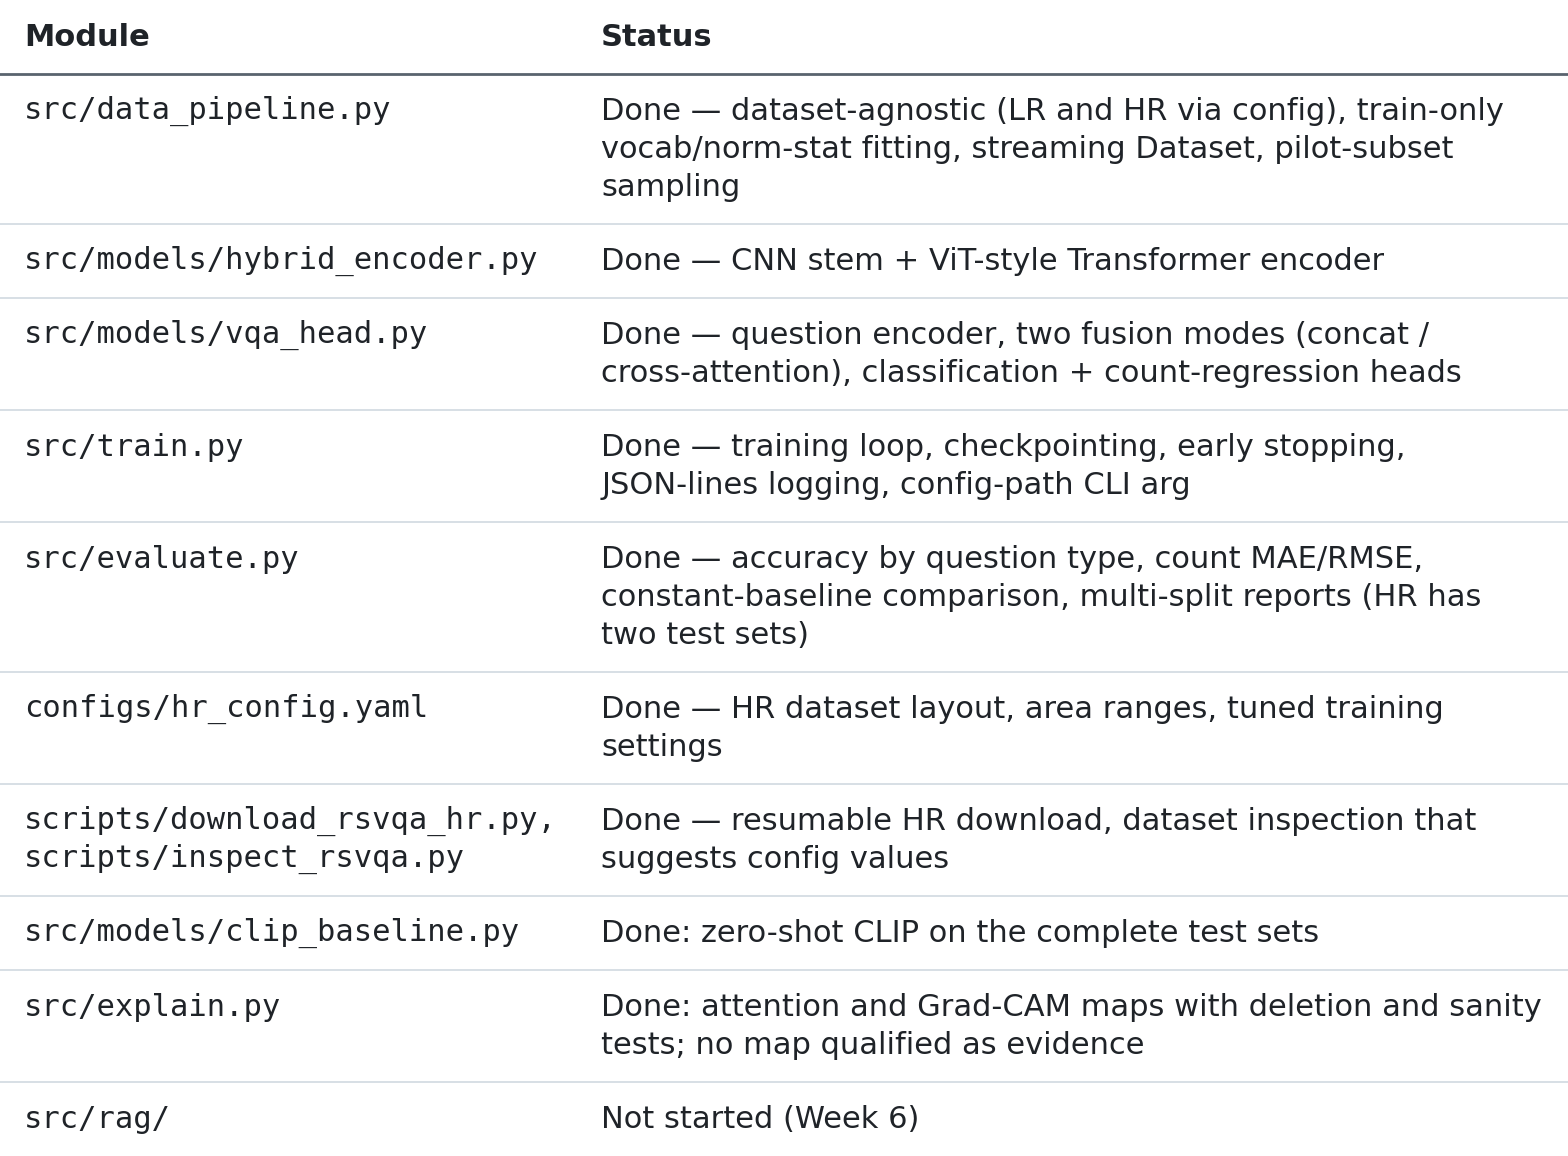
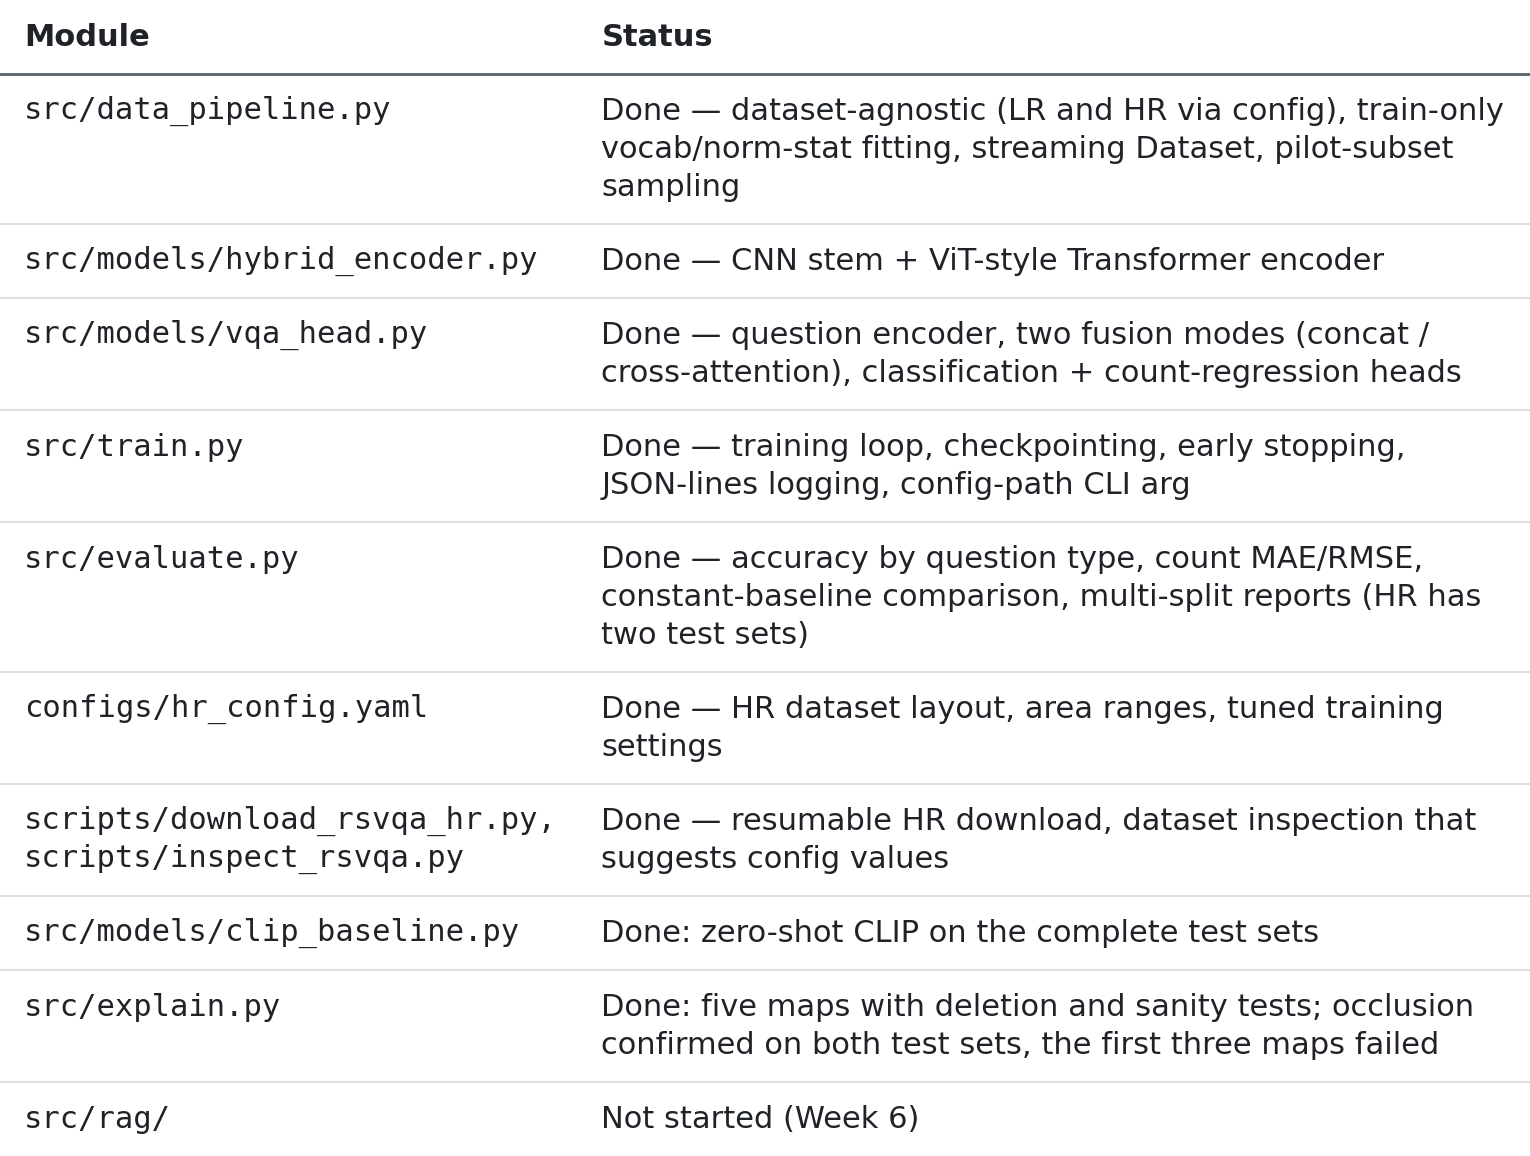
Record XAI second attempt: occlusion confirmed on both test sets
Gradient-weighted attention and occlusion both qualified on val; occlusion
had the larger effect and went to the test sets once. It beats the random
map on every question type, pooled and in each test set, and passes both
checks. The README states the limits, including that the first three maps
were not rerun with blur deletion.

diff --git a/README.md b/README.md
@@ -17,7 +17,7 @@ follows.
 **Week 1 (RSVQA-LR pipeline) is complete, trained, and evaluated.**
 **Weeks 2-4 (RSVQA-HR port, tuning, full run) are complete, trained, and evaluated.**
 
-<img src="reports/figures/table_01.png" alt="Status: Module, Status" width="784">
+<img src="reports/figures/table_01.png" alt="Status: Module, Status" width="765">
 
 <details><summary>Table as text</summary>
 
@@ -31,7 +31,7 @@ follows.
 | `configs/hr_config.yaml` | Done — HR dataset layout, area ranges, tuned training settings |
 | `scripts/download_rsvqa_hr.py`, `scripts/inspect_rsvqa.py` | Done — resumable HR download, dataset inspection that suggests config values |
 | `src/models/clip_baseline.py` | Done: zero-shot CLIP on the complete test sets |
-| `src/explain.py` | Done: attention and Grad-CAM maps with deletion and sanity tests; no map qualified as evidence |
+| `src/explain.py` | Done: five maps with deletion and sanity tests; occlusion confirmed on both test sets, the first three maps failed |
 | `src/rag/` | Not started (Week 6) |
 
 </details>
@@ -408,9 +408,12 @@ fixed before any result: the largest deletion effect among maps that beat random
 pass both checks below. Sample: up to 250 right and 250 wrong answers per question type and test set (3,829
 questions). Report: `reports/xai_results_hr_full_20261031-090319.md`.
 
-**Result: no map qualifies, so the maps must not be presented as evidence for an answer.**
+**Final result: occlusion qualifies on both test sets (see Second attempt below).** The first attempt, described
+here, ended with no map qualifying.
 
-<img src="reports/figures/table_12.png" alt="Explainability (XAI, `hr_full` model): Map, Beats random on, Correlation with random weights (limit 0.5), Correlation between two questions (limit 0.9), Outcome" width="867">
+#### First attempt: attention and Grad-CAM
+
+<img src="reports/figures/table_12.png" alt="First attempt: attention and Grad-CAM: Map, Beats random on, Correlation with random weights (limit 0.5), Correlation between two questions (limit 0.9), Outcome" width="867">
 
 <details><summary>Table as text</summary>
 
@@ -424,7 +427,7 @@ questions). Report: `reports/xai_results_hr_full_20261031-090319.md`.
 
 Rollout's deletion effect against the random map, by test set (probability drop, or log1p change for count):
 
-<img src="reports/figures/table_13.png" alt="Explainability (XAI, `hr_full` model): Type, test rollout, test random, test_phili rollout, test_phili random" width="704">
+<img src="reports/figures/table_13.png" alt="First attempt: attention and Grad-CAM: Type, test rollout, test random, test_phili rollout, test_phili random" width="704">
 
 <details><summary>Table as text</summary>
 
@@ -455,6 +458,56 @@ Examples, the presence figures for both test sets, right and wrong (tiles chosen
 <img src="reports/figures/xai/test_presence_wrong.png" alt="XAI maps, test set, presence question answered wrongly" width="825">
 <img src="reports/figures/xai/test_phili_presence_right.png" alt="XAI maps, Philadelphia, presence question answered correctly" width="825">
 <img src="reports/figures/xai/test_phili_presence_wrong.png" alt="XAI maps, Philadelphia, presence question answered wrongly" width="825">
+
+#### Second attempt: occlusion
+
+After that failure, two further maps were tried: **gradient-weighted attention** (Chefer et al., 2021, every
+attention step weighted by its gradient for this answer) and **occlusion** (grey out each grid cell in turn and
+measure how much the answer changes, 256 model runs per question). The limits and the rule stayed the same.
+Deletion changed from the mean colour to a blur, because occlusion builds its map with grey and would otherwise
+be tested by the same operation. Both maps were run on val, and only the winner went to the test sets, once.
+Reports: `reports/xai_results_hr_full_20261031-090319_new_val.md` and `_new_test.md`.
+
+<img src="reports/figures/table_14.png" alt="Second attempt: occlusion: Map, Stage (questions), Standardized effect: presence / comparison / area / count, Correlation with random weights (limit 0.5), Correlation between two questions (limit 0.9), Outcome" width="868">
+
+<details><summary>Table as text</summary>
+
+| Map | Stage (questions) | Standardized effect: presence / comparison / area / count | Correlation with random weights (limit 0.5) | Correlation between two questions (limit 0.9) | Outcome |
+|---|---|---|---|---|---|
+| Gradient-weighted attention | val (1,538) | 0.25 / 0.18 / 0.18 / 0.53 | -0.015 | 0.352 | Qualifies, not chosen: smaller effect |
+| Occlusion | val (1,538) | 0.79 / 0.74 / 0.90 / 0.63 | 0.023 | 0.101 | Qualifies, chosen |
+| Occlusion | both test sets (3,829) | 0.78 / 0.79 / 0.80 / 0.50 | 0.024 | 0.114 | **Confirmed** |
+
+</details>
+
+Occlusion's deletion effect against the random map, by test set (probability drop, or log1p change for count), with
+the 95% lower bound on the difference:
+
+<img src="reports/figures/table_15.png" alt="Second attempt: occlusion: Type, test occlusion, test random, test lower bound, test_phili occlusion, test_phili random, test_phili lower bound" width="861">
+
+<details><summary>Table as text</summary>
+
+| Type | `test` occlusion | `test` random | `test` lower bound | `test_phili` occlusion | `test_phili` random | `test_phili` lower bound |
+|---|---|---|---|---|---|---|
+| Presence | 0.143 | 0.028 | 0.101 | 0.139 | 0.017 | 0.108 |
+| Comparison | 0.191 | 0.038 | 0.135 | 0.142 | 0.004 | 0.122 |
+| Area | 0.159 | 0.034 | 0.113 | 0.141 | 0.028 | 0.100 |
+| Count | 0.312 | 0.175 | 0.117 | 0.135 | 0.081 | 0.044 |
+
+</details>
+
+- **It holds in Philadelphia**, the city the model never saw and where rollout tied random. Count is the weakest
+  type there: the answer changes on 21.9% of deletions, against 15.2% for random.
+- **Faithful does not mean correct.** The map shows what this model relied on, including when it is wrong. It says
+  nothing about whether that region contains the object asked about, because RSVQA has no object masks.
+- **The test favours this method.** Occlusion measures the answer's sensitivity to removing a cell, and deletion
+  checks much the same thing. Blurring reduces this advantage but does not remove it.
+- **The two attempts are not like for like.** The first three maps were not rerun with blur, so this does not show
+  that occlusion beats them under equal conditions. Rollout would still fail on its question correlation, which
+  deletion does not affect.
+- **Other limits.** Most answers survive deletion: on presence, comparison and area the answer changes on 22-33% of
+  deletions. The all-constant check found 3 maps of 3,829. The sample limits above still apply. Each answer takes
+  1.48 s with its maps on a T4, against 0.009 s for the first three maps.
 
 ## Key design decisions
 
@@ -585,7 +638,7 @@ To train on a GPU instead:
 All hyperparameters live in `configs/model_config.yaml` (LR) /
 `configs/hr_config.yaml` (HR):
 
-<img src="reports/figures/table_14.png" alt="Configuration: Key, Meaning" width="859">
+<img src="reports/figures/table_16.png" alt="Configuration: Key, Meaning" width="859">
 
 <details><summary>Table as text</summary>
 
@@ -627,7 +680,7 @@ src/
 ├── rag/                   # retrieval + LLM explanation layer (not started)
 ├── train.py
 ├── evaluate.py
-└── explain.py             # attention rollout + Grad-CAM, with faithfulness tests
+└── explain.py             # attention, Grad-CAM and occlusion maps, with faithfulness tests
 scripts/
 ├── download_rsvqa_hr.py   # resumable HR download from Zenodo
 ├── inspect_rsvqa.py       # dataset inspection (LR or HR), suggests config values

diff --git a/reports/xai_results_hr_full_20261031-090319_new_test.md b/reports/xai_results_hr_full_20261031-090319_new_test.md
@@ -1,0 +1,103 @@
+# XAI results: hr\_full\_20261031-090319
+
+Splits: test, test\_phili. Deleted cells are replaced with: blur.
+
+**Map for the RAG layer: occlusion**
+
+- `occlusion`: qualifies, mean standardized effect 0.716
+
+## Against the random map (scored splits pooled; this decides the choice)
+
+Per question, the effect averaged over deletion sizes, minus the random map's.
+
+| Map | Type | Mean difference | 95% lower bound | Standardized |
+| :---- | :---- | :---- | :---- | :---- |
+| occlusion | presence | 0.1186 | 0.1088 | 0.779 |
+| occlusion | comp | 0.1454 | 0.1334 | 0.791 |
+| occlusion | area | 0.1196 | 0.1103 | 0.796 |
+| occlusion | count | 0.0956 | 0.0837 | 0.500 |
+
+## Against a random block (secondary, scored splits pooled)
+
+The same, against one compact random patch of the same size. Added after the pilot, so it does not affect the choice of map; it shows whether scattered deletion made the random map a harsher baseline.
+
+| Map | Type | Mean difference | 95% lower bound | Standardized |
+| :---- | :---- | :---- | :---- | :---- |
+| occlusion | presence | 0.1216 | 0.1108 | 0.728 |
+| occlusion | comp | 0.1376 | 0.1241 | 0.664 |
+| occlusion | area | 0.1223 | 0.1122 | 0.750 |
+| occlusion | count | 0.1208 | 0.1046 | 0.461 |
+
+## Against the random map: test alone (does not decide the choice)
+
+The same as the pooled table, for this split only.
+
+| Map | Type | Mean difference | 95% lower bound | Standardized |
+| :---- | :---- | :---- | :---- | :---- |
+| occlusion | presence | 0.1150 | 0.1011 | 0.766 |
+| occlusion | comp | 0.1530 | 0.1351 | 0.797 |
+| occlusion | area | 0.1257 | 0.1128 | 0.852 |
+| occlusion | count | 0.1374 | 0.1166 | 0.579 |
+
+## Against the random map: test\_phili alone (does not decide the choice)
+
+The same as the pooled table, for this split only.
+
+| Map | Type | Mean difference | 95% lower bound | Standardized |
+| :---- | :---- | :---- | :---- | :---- |
+| occlusion | presence | 0.1220 | 0.1081 | 0.791 |
+| occlusion | comp | 0.1381 | 0.1221 | 0.786 |
+| occlusion | area | 0.1134 | 0.1000 | 0.742 |
+| occlusion | count | 0.0538 | 0.0437 | 0.467 |
+
+## Checks
+
+Mean rank correlation; a map fails at or above the limit.
+
+| Map | Trained vs random weights (limit 0.5) | Two questions, same tile (limit 0.9) | All-constant maps |
+| :---- | :---- | :---- | :---- |
+| occlusion | 0.024 | 0.114 | 3 of 3829 |
+
+## Deletion test: test
+
+Effect: drop in the predicted class's probability, or for count the absolute change in log1p(count). Averages over questions; the sample is balanced between right and wrong answers.
+
+| Type | Questions (right) | Map | 10% | 20% | 30% | 50% | Mean | Answer changed (mean) |
+| :---- | :---- | :---- | :---- | :---- | :---- | :---- | :---- | :---- |
+| presence | 449 (250) | occlusion | 0.1109 | 0.1416 | 0.1565 | 0.1616 | 0.1427 | 25.7% |
+| presence | 449 (250) | random | 0.0098 | 0.0142 | 0.0259 | 0.0606 | 0.0276 | 8.5% |
+| presence | 449 (250) | random\_block | 0.0081 | 0.0167 | 0.0277 | 0.0565 | 0.0272 | 8.9% |
+| comp | 443 (250) | occlusion | 0.1641 | 0.1952 | 0.2046 | 0.2003 | 0.1911 | 29.3% |
+| comp | 443 (250) | random | 0.0065 | 0.0240 | 0.0415 | 0.0805 | 0.0381 | 9.8% |
+| comp | 443 (250) | random\_block | 0.0095 | 0.0211 | 0.0352 | 0.0732 | 0.0347 | 7.5% |
+| area | 500 (250) | occlusion | 0.1349 | 0.1596 | 0.1697 | 0.1731 | 0.1593 | 32.8% |
+| area | 500 (250) | random | 0.0052 | 0.0186 | 0.0354 | 0.0752 | 0.0336 | 10.7% |
+| area | 500 (250) | random\_block | 0.0089 | 0.0236 | 0.0390 | 0.0735 | 0.0363 | 12.0% |
+| count | 500 (250) | occlusion | 0.1856 | 0.2655 | 0.3330 | 0.4641 | 0.3120 | 38.0% |
+| count | 500 (250) | random | 0.0637 | 0.1175 | 0.1860 | 0.3314 | 0.1746 | 32.0% |
+| count | 500 (250) | random\_block | 0.0510 | 0.0892 | 0.1344 | 0.2425 | 0.1293 | 30.1% |
+
+## Deletion test: test\_phili
+
+Effect: drop in the predicted class's probability, or for count the absolute change in log1p(count). Averages over questions; the sample is balanced between right and wrong answers.
+
+| Type | Questions (right) | Map | 10% | 20% | 30% | 50% | Mean | Answer changed (mean) |
+| :---- | :---- | :---- | :---- | :---- | :---- | :---- | :---- | :---- |
+| presence | 475 (250) | occlusion | 0.1226 | 0.1455 | 0.1485 | 0.1409 | 0.1394 | 25.9% |
+| presence | 475 (250) | random | 0.0062 | 0.0126 | 0.0185 | 0.0323 | 0.0174 | 8.9% |
+| presence | 475 (250) | random\_block | 0.0013 | 0.0122 | 0.0116 | 0.0229 | 0.0120 | 6.7% |
+| comp | 462 (250) | occlusion | 0.1271 | 0.1472 | 0.1502 | 0.1423 | 0.1417 | 21.7% |
+| comp | 462 (250) | random | 0.0029 | 0.0014 | 0.0006 | 0.0095 | 0.0036 | 6.3% |
+| comp | 462 (250) | random\_block | 0.0046 | 0.0125 | 0.0252 | 0.0461 | 0.0221 | 5.9% |
+| area | 500 (250) | occlusion | 0.1250 | 0.1448 | 0.1517 | 0.1424 | 0.1410 | 28.3% |
+| area | 500 (250) | random | 0.0132 | 0.0230 | 0.0289 | 0.0450 | 0.0275 | 11.9% |
+| area | 500 (250) | random\_block | 0.0076 | 0.0149 | 0.0234 | 0.0320 | 0.0195 | 11.6% |
+| count | 500 (250) | occlusion | 0.0999 | 0.1273 | 0.1448 | 0.1664 | 0.1346 | 21.9% |
+| count | 500 (250) | random | 0.0422 | 0.0672 | 0.0872 | 0.1267 | 0.0808 | 15.2% |
+| count | 500 (250) | random\_block | 0.0363 | 0.0590 | 0.0835 | 0.1241 | 0.0757 | 13.9% |
+
+## Speed
+
+1.480 s for one answer and its maps, on cuda.
+
+96.9 min in total.

diff --git a/reports/xai_results_hr_full_20261031-090319_new_val.md b/reports/xai_results_hr_full_20261031-090319_new_val.md
@@ -1,0 +1,82 @@
+# XAI results: hr\_full\_20261031-090319
+
+Splits: val. Deleted cells are replaced with: blur.
+
+**Map for the RAG layer: occlusion**
+
+- `gradient_attention`: qualifies, mean standardized effect 0.283  
+- `occlusion`: qualifies, mean standardized effect 0.765
+
+## Against the random map (scored splits pooled; this decides the choice)
+
+Per question, the effect averaged over deletion sizes, minus the random map's.
+
+| Map | Type | Mean difference | 95% lower bound | Standardized |
+| :---- | :---- | :---- | :---- | :---- |
+| gradient\_attention | presence | 0.0226 | 0.0125 | 0.245 |
+| gradient\_attention | comp | 0.0164 | 0.0067 | 0.182 |
+| gradient\_attention | area | 0.0159 | 0.0068 | 0.176 |
+| gradient\_attention | count | 0.1185 | 0.0989 | 0.531 |
+| occlusion | presence | 0.1144 | 0.0985 | 0.790 |
+| occlusion | comp | 0.1222 | 0.1045 | 0.743 |
+| occlusion | area | 0.1341 | 0.1192 | 0.899 |
+| occlusion | count | 0.1597 | 0.1374 | 0.629 |
+
+## Against a random block (secondary, scored splits pooled)
+
+The same, against one compact random patch of the same size. Added after the pilot, so it does not affect the choice of map; it shows whether scattered deletion made the random map a harsher baseline.
+
+| Map | Type | Mean difference | 95% lower bound | Standardized |
+| :---- | :---- | :---- | :---- | :---- |
+| gradient\_attention | presence | 0.0242 | 0.0116 | 0.210 |
+| gradient\_attention | comp | 0.0312 | 0.0182 | 0.258 |
+| gradient\_attention | area | 0.0290 | 0.0175 | 0.251 |
+| gradient\_attention | count | 0.1633 | 0.1375 | 0.554 |
+| occlusion | presence | 0.1160 | 0.0986 | 0.733 |
+| occlusion | comp | 0.1369 | 0.1153 | 0.682 |
+| occlusion | area | 0.1472 | 0.1296 | 0.833 |
+| occlusion | count | 0.2045 | 0.1752 | 0.612 |
+
+## Checks
+
+Mean rank correlation; a map fails at or above the limit.
+
+| Map | Trained vs random weights (limit 0.5) | Two questions, same tile (limit 0.9) | All-constant maps |
+| :---- | :---- | :---- | :---- |
+| gradient\_attention | \-0.015 | 0.352 | 0 of 1538 |
+| occlusion | 0.023 | 0.101 | 2 of 1538 |
+
+## Agreement between maps
+
+| Pair | Rank correlation | Overlap of top 20% (IoU) |
+| :---- | :---- | :---- |
+| gradient\_attention vs occlusion | 0.065 | 0.135 |
+
+## Deletion test: val
+
+Effect: drop in the predicted class's probability, or for count the absolute change in log1p(count). Averages over questions; the sample is balanced between right and wrong answers.
+
+| Type | Questions (right) | Map | 10% | 20% | 30% | 50% | Mean | Answer changed (mean) |
+| :---- | :---- | :---- | :---- | :---- | :---- | :---- | :---- | :---- |
+| presence | 321 (250) | gradient\_attention | 0.0199 | 0.0366 | 0.0468 | 0.0828 | 0.0465 | 9.0% |
+| presence | 321 (250) | occlusion | 0.1006 | 0.1338 | 0.1502 | 0.1686 | 0.1383 | 21.6% |
+| presence | 321 (250) | random | 0.0038 | 0.0127 | 0.0251 | 0.0541 | 0.0239 | 5.5% |
+| presence | 321 (250) | random\_block | 0.0049 | 0.0127 | 0.0204 | 0.0514 | 0.0223 | 4.9% |
+| comp | 332 (250) | gradient\_attention | 0.0271 | 0.0428 | 0.0559 | 0.0897 | 0.0539 | 9.0% |
+| comp | 332 (250) | occlusion | 0.1276 | 0.1598 | 0.1696 | 0.1813 | 0.1596 | 19.1% |
+| comp | 332 (250) | random | 0.0076 | 0.0205 | 0.0380 | 0.0836 | 0.0374 | 6.6% |
+| comp | 332 (250) | random\_block | 0.0069 | 0.0130 | 0.0238 | 0.0468 | 0.0226 | 4.1% |
+| area | 385 (250) | gradient\_attention | 0.0173 | 0.0389 | 0.0670 | 0.1200 | 0.0608 | 12.9% |
+| area | 385 (250) | occlusion | 0.1384 | 0.1767 | 0.1950 | 0.2059 | 0.1790 | 29.4% |
+| area | 385 (250) | random | 0.0129 | 0.0267 | 0.0449 | 0.0952 | 0.0449 | 9.9% |
+| area | 385 (250) | random\_block | 0.0055 | 0.0160 | 0.0309 | 0.0747 | 0.0318 | 8.4% |
+| count | 500 (250) | gradient\_attention | 0.1474 | 0.2374 | 0.3190 | 0.4815 | 0.2963 | 39.1% |
+| count | 500 (250) | occlusion | 0.2089 | 0.2908 | 0.3645 | 0.4858 | 0.3375 | 40.1% |
+| count | 500 (250) | random | 0.0626 | 0.1135 | 0.1857 | 0.3495 | 0.1778 | 33.3% |
+| count | 500 (250) | random\_block | 0.0530 | 0.0891 | 0.1389 | 0.2510 | 0.1330 | 30.9% |
+
+## Speed
+
+1.443 s for one answer and its maps, on cuda.
+
+42.4 min in total.

diff --git a/reports/xai_results_hr_full_20261031-090319_new_val_pilot.md b/reports/xai_results_hr_full_20261031-090319_new_val_pilot.md
@@ -1,0 +1,82 @@
+# XAI results: hr\_full\_20261031-090319 (pilot subsets)
+
+Splits: val. Deleted cells are replaced with: blur.
+
+**Map for the RAG layer: occlusion**
+
+- `gradient_attention`: does not beat random on: area, comp  
+- `occlusion`: qualifies, mean standardized effect 0.841
+
+## Against the random map (test splits pooled)
+
+Per question, the effect averaged over deletion sizes, minus the random map's.
+
+| Map | Type | Mean difference | 95% lower bound | Standardized |
+| :---- | :---- | :---- | :---- | :---- |
+| gradient\_attention | presence | 0.0365 | 0.0067 | 0.367 |
+| gradient\_attention | comp | 0.0287 | \-0.0031 | 0.255 |
+| gradient\_attention | area | 0.0125 | \-0.0229 | 0.098 |
+| gradient\_attention | count | 0.0667 | 0.0228 | 0.421 |
+| occlusion | presence | 0.1301 | 0.0889 | 0.944 |
+| occlusion | comp | 0.1763 | 0.1268 | 1.008 |
+| occlusion | area | 0.1290 | 0.0914 | 0.952 |
+| occlusion | count | 0.0903 | 0.0358 | 0.460 |
+
+## Against a random block (secondary, test splits pooled)
+
+The same, against one compact random patch of the same size. Added after the pilot, so it does not affect the choice of map; it shows whether scattered deletion made the random map a harsher baseline.
+
+| Map | Type | Mean difference | 95% lower bound | Standardized |
+| :---- | :---- | :---- | :---- | :---- |
+| gradient\_attention | presence | 0.0293 | \-0.0164 | 0.192 |
+| gradient\_attention | comp | 0.0472 | 0.0049 | 0.315 |
+| gradient\_attention | area | 0.0384 | 0.0026 | 0.297 |
+| gradient\_attention | count | 0.1244 | 0.0719 | 0.657 |
+| occlusion | presence | 0.1229 | 0.0734 | 0.742 |
+| occlusion | comp | 0.1948 | 0.1292 | 0.841 |
+| occlusion | area | 0.1549 | 0.1053 | 0.865 |
+| occlusion | count | 0.1480 | 0.0756 | 0.567 |
+
+## Checks
+
+Mean rank correlation; a map fails at or above the limit.
+
+| Map | Trained vs random weights (limit 0.5) | Two questions, same tile (limit 0.9) | All-constant maps |
+| :---- | :---- | :---- | :---- |
+| gradient\_attention | 0.001 | 0.407 | 0 of 191 |
+| occlusion | 0.029 | 0.151 | 0 of 191 |
+
+## Agreement between maps
+
+| Pair | Rank correlation | Overlap of top 20% (IoU) |
+| :---- | :---- | :---- |
+| gradient\_attention vs occlusion | 0.045 | 0.129 |
+
+## Deletion test: val
+
+Effect: drop in the predicted class's probability, or for count the absolute change in log1p(count). Averages over questions; the sample is balanced between right and wrong answers.
+
+| Type | Questions (right) | Map | 10% | 20% | 30% | 50% | Mean | Answer changed (mean) |
+| :---- | :---- | :---- | :---- | :---- | :---- | :---- | :---- | :---- |
+| presence | 43 (25) | gradient\_attention | 0.0387 | 0.0574 | 0.0664 | 0.0970 | 0.0649 | 14.5% |
+| presence | 43 (25) | occlusion | 0.1387 | 0.1509 | 0.1678 | 0.1765 | 0.1585 | 23.3% |
+| presence | 43 (25) | random | 0.0085 | 0.0076 | 0.0228 | 0.0746 | 0.0283 | 8.7% |
+| presence | 43 (25) | random\_block | 0.0025 | 0.0194 | 0.0456 | 0.0746 | 0.0355 | 6.4% |
+| comp | 48 (25) | gradient\_attention | 0.0556 | 0.0819 | 0.1076 | 0.1434 | 0.0971 | 19.3% |
+| comp | 48 (25) | occlusion | 0.1962 | 0.2372 | 0.2806 | 0.2649 | 0.2447 | 30.2% |
+| comp | 48 (25) | random | 0.0215 | 0.0468 | 0.0700 | 0.1354 | 0.0684 | 14.6% |
+| comp | 48 (25) | random\_block | 0.0192 | 0.0307 | 0.0513 | 0.0987 | 0.0500 | 10.9% |
+| area | 50 (25) | gradient\_attention | 0.0140 | 0.0573 | 0.0634 | 0.0927 | 0.0568 | 20.5% |
+| area | 50 (25) | occlusion | 0.1605 | 0.1755 | 0.1911 | 0.1664 | 0.1734 | 42.0% |
+| area | 50 (25) | random | 0.0239 | 0.0362 | 0.0410 | 0.0763 | 0.0444 | 12.5% |
+| area | 50 (25) | random\_block | \-0.0028 | 0.0068 | 0.0230 | 0.0468 | 0.0184 | 8.0% |
+| count | 50 (25) | gradient\_attention | 0.1126 | 0.1631 | 0.2129 | 0.3563 | 0.2113 | 40.0% |
+| count | 50 (25) | occlusion | 0.1402 | 0.2038 | 0.2539 | 0.3416 | 0.2349 | 39.5% |
+| count | 50 (25) | random | 0.0749 | 0.1132 | 0.1362 | 0.2540 | 0.1446 | 36.0% |
+| count | 50 (25) | random\_block | 0.0312 | 0.0585 | 0.0833 | 0.1745 | 0.0869 | 24.5% |
+
+## Speed
+
+1.432 s for one answer and its maps, on cuda.
+
+6.6 min in total.
